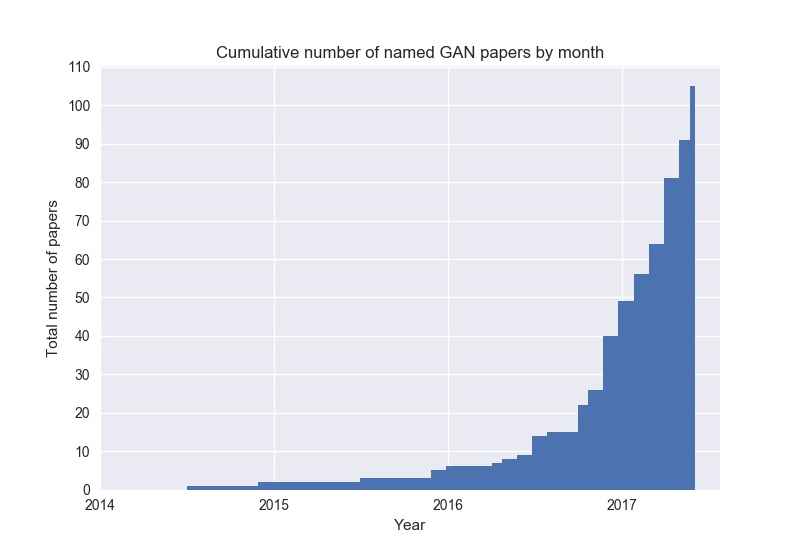
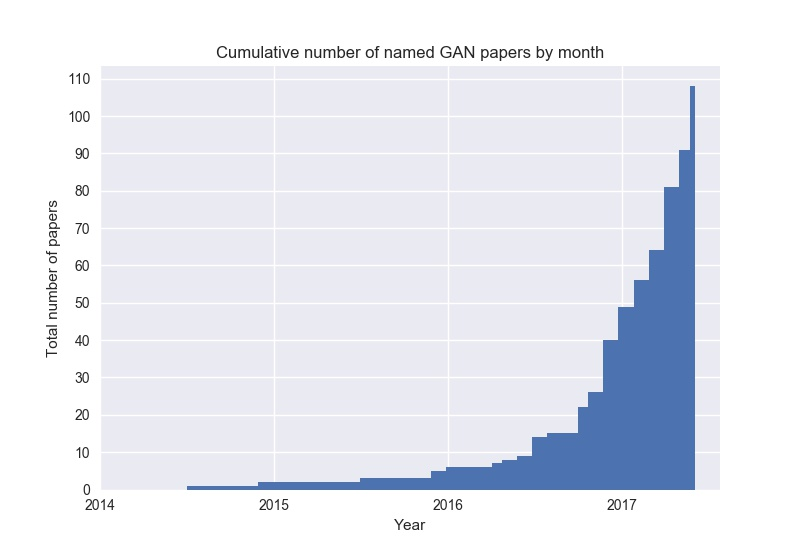
Added Rank GAN, WS-GAN, ORGAN

diff --git a/README.md b/README.md
@@ -80,11 +80,13 @@ Check out [Deep Hunt](https://deephunt.in) - my weekly AI newsletter for this re
 * MMD-GAN - [MMD GAN: Towards Deeper Understanding of Moment Matching Network](https://arxiv.org/abs/1705.08584)
 * MPM-GAN - [Message Passing Multi-Agent GANs](https://arxiv.org/abs/1612.01294)
 * MV-BiGAN - [Multi-view Generative Adversarial Networks](https://arxiv.org/abs/1611.02019v1)
+* ORGAN - [Objective-Reinforced Generative Adversarial Networks (ORGAN) for Sequence Generation Models](https://arxiv.org/abs/1705.10843)
 * pix2pix - [Image-to-Image Translation with Conditional Adversarial Networks](https://arxiv.org/abs/1611.07004)
 * Pose-GAN - [The Pose Knows: Video Forecasting by Generating Pose Futures](https://arxiv.org/abs/1705.00053)
 * PPGN - [Plug & Play Generative Networks: Conditional Iterative Generation of Images in Latent Space](https://arxiv.org/abs/1612.00005)
 * PrGAN - [3D Shape Induction from 2D Views of Multiple Objects](https://arxiv.org/abs/1612.05872)
 * PSGAN - [Learning Texture Manifolds with the Periodic Spatial GAN](http://arxiv.org/abs/1705.06566)
+* RankGAN - [Adversarial Ranking for Language Generation](https://arxiv.org/abs/1705.11001)
 * RenderGAN - [RenderGAN: Generating Realistic Labeled Data](https://arxiv.org/abs/1611.01331)
 * RPGAN - [Stabilizing GAN Training with Multiple Random Projections](https://arxiv.org/abs/1705.07831)
 * RTT-GAN - [Recurrent Topic-Transition GAN for Visual Paragraph Generation](https://arxiv.org/abs/1703.07022v2)
@@ -119,3 +121,4 @@ Check out [Deep Hunt](https://deephunt.in) - my weekly AI newsletter for this re
 * WaterGAN - [WaterGAN: Unsupervised Generative Network to Enable Real-time Color Correction of Monocular Underwater Images](https://arxiv.org/abs/1702.07392v1)
 * WGAN - [Wasserstein GAN](https://arxiv.org/abs/1701.07875v2)
 * WGAN-GP - [Improved Training of Wasserstein GANs](https://arxiv.org/abs/1704.00028)
+* WS-GAN - [Weakly Supervised Generative Adversarial Networks for 3D Reconstruction](https://arxiv.org/abs/1705.10904)
